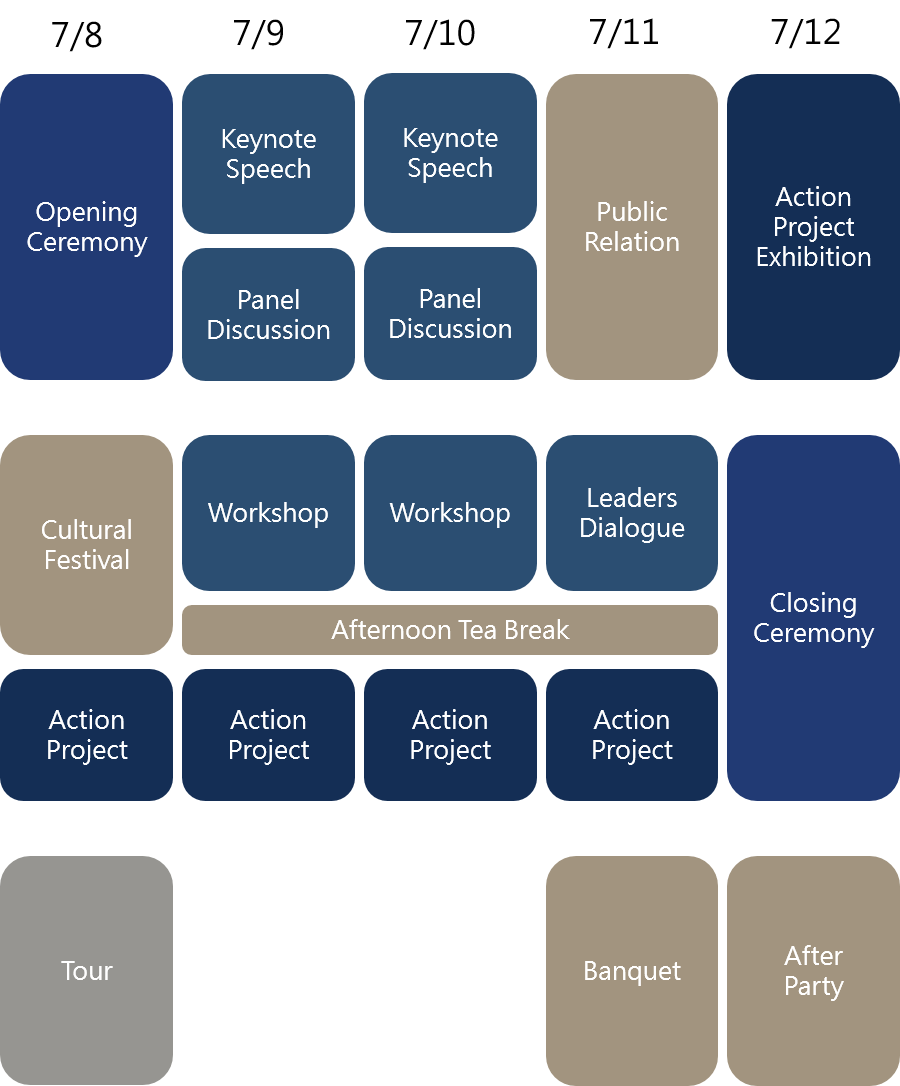
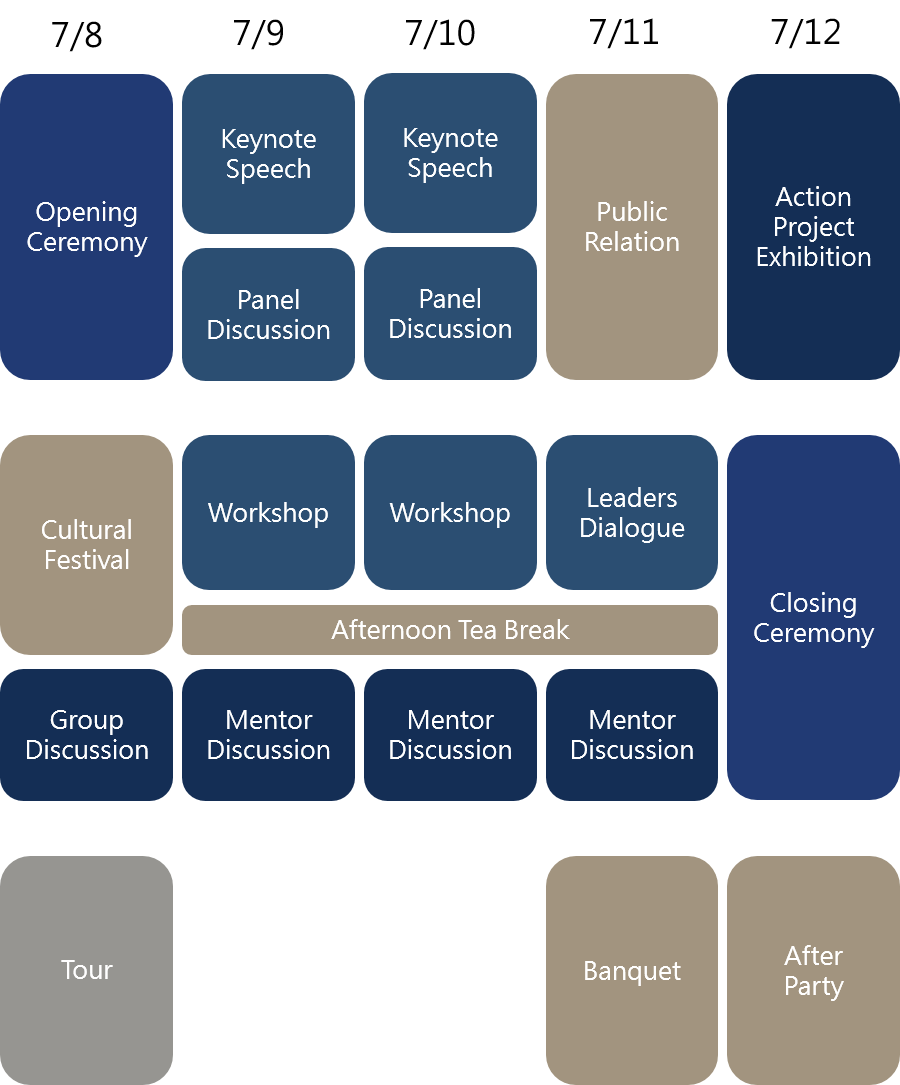
0310update

diff --git a/agenda.html b/agenda.html
@@ -119,6 +119,200 @@
                                 </div>
                             </div>
                         </section>
+                        <!--==========================
+                            About Us Section
+                            ============================-->
+                        <section id="about">
+                            <div class="container">
+
+                                <header class="section-header">
+                                    <h3 data-i18n="agenda.1h">Explore Academic Topics</h3>
+                                </header>
+
+                                <div class="row about-cols">
+
+                                    <div class="col-md-4 wow fadeInUp">
+                                        <div class="about-col">
+                                            <div class="img">
+                                                <img src="img/agenda/11.JPG" alt="" class="img-fluid">
+                                                <div class="icon"><i class="ion-ios-speedometer-outline"></i></div>
+                                            </div>
+                                            <h2 class="title" data-i18n="agenda.11">Keynote Speech</h2>
+                                            <p data-i18n="agenda.11_des">
+                                            Themes of the speeches all regard having proactive thinking and developmental possibilities. From the four speakers of different fields, they will combine creative notions and real-life experiences to inspire delegates. 
+                                            </p>
+                                        </div>
+                                    </div>
+
+                                    <div class="col-md-4 wow fadeInUp" data-wow-delay="0.1s">
+                                        <div class="about-col">
+                                            <div class="img">
+                                                <img src="img/agenda/12.JPG" alt="" class="img-fluid">
+                                                <div class="icon"><i class="ion-ios-list-outline"></i></div>
+                                            </div>
+                                            <h2 class="title" data-i18n="agenda.12">Panel Discussion</h2>
+                                            <p data-i18n="agenda.12_des">
+                                            Led by the host, speakers from different backgrounds will put forward questions and debate possible solutions. They will also answer and discuss questions asked by delegates. We hope that this experience can stimulate extensive ideas and imagination from both delegates and speakers. 
+                                            </p>
+                                        </div>
+                                    </div>
+
+                                    <div class="col-md-4 wow fadeInUp" data-wow-delay="0.2s">
+                                        <div class="about-col">
+                                            <div class="img">
+                                                <img src="img/agenda/13.jpg" alt="" class="img-fluid">
+                                                <div class="icon"><i class="ion-ios-eye-outline"></i></div>
+                                            </div>
+                                            <h2 class="title" data-i18n="agenda.13">Workshop</h2>
+                                            <p data-i18n="agenda.13_des">
+                                            After providing delegates with different perspectives on the keynote speech topics, we then invite the speakers to lead in-depth workshops. This encourages delegates to engage in deeper thinking and to incorporate individual strategic analysis or group proposals that can be applied to practical usages. 
+                                            </p>
+                                        </div>
+                                    </div>
+
+                                </div>
+                                <header class="section-header mt-4">
+                                    <h3 data-i18n="agenda.2h">Action Project</h3>
+                                </header>
+
+                                <div class="row about-cols">
+
+                                    <div class="col-md-4 wow fadeInUp">
+                                        <div class="about-col">
+                                            <div class="img">
+                                                <img src="img/agenda/21.JPG" alt="" class="img-fluid">
+                                                <div class="icon"><i class="ion-ios-speedometer-outline"></i></div>
+                                            </div>
+                                            <h2 class="title" data-i18n="agenda.21">Action Project Competition</h2>
+                                            <p data-i18n="agenda.21_des">
+                                            Delegates will apply professional knowledge learned from the academic topics on related fields. They will then discuss among groups, and with the help from industrial mentors, draft up feasible action plans and compete.
+                                            </p>
+                                        </div>
+                                    </div>
+
+                                    <div class="col-md-4 wow fadeInUp" data-wow-delay="0.1s">
+                                        <div class="about-col">
+                                            <div class="img">
+                                                <img src="img/agenda/22.JPG" alt="" class="img-fluid">
+                                                <div class="icon"><i class="ion-ios-list-outline"></i></div>
+                                            </div>
+                                            <h2 class="title" data-i18n="agenda.22">Mentor Discussion</h2>
+                                            <p data-i18n="agenda.22_des">
+                                            GIS Taiwan will arrange delegates to be mentored by academic and industrial experts. The experience of these industry experts enables a comprehensive inspection of delegates' proposals and helps optimize their action plans.
+                                            </p>
+                                        </div>
+                                    </div>
+
+                                    <div class="col-md-4 wow fadeInUp" data-wow-delay="0.2s">
+                                        <div class="about-col">
+                                            <div class="img">
+                                                <img src="img/agenda/23.JPG" alt="" class="img-fluid">
+                                                <div class="icon"><i class="ion-ios-eye-outline"></i></div>
+                                            </div>
+                                            <h2 class="title" data-i18n="agenda.23">Action Project Exhibition</h2>
+                                            <p data-i18n="agenda.23_des">
+                                            Each group will showcase their results and demonstrate their action plans to judges. We will also invite other companies and interested parties to participate in the forum. Ultimately we expect GIS Taiwan to become a platform where young talents' creativity can be seen and where their ideas can be realized.
+                                            </p>
+                                        </div>
+                                    </div>
+
+                                </div>
+                                <header class="section-header mt-4">
+                                    <h3 data-i18n="agenda.3h">Social Event</h3>
+                                </header>
+
+                                <div class="row about-cols">
+
+                                    <div class="col-md-4 wow fadeInUp">
+                                        <div class="about-col">
+                                            <div class="img">
+                                                <img src="img/agenda/31.JPG" alt="" class="img-fluid">
+                                                <div class="icon"><i class="ion-ios-speedometer-outline"></i></div>
+                                            </div>
+                                            <h2 class="title" data-i18n="agenda.31">Banquet</h2>
+                                            <p data-i18n="agenda.31_des">
+                                            The banquet will be held in the form of traditional Taiwanese catering. Not only will delegates attend, but speakers, company executives, and government officials will also be invited to celebrate and socialize in this particular occasion.
+                                            </p>
+                                        </div>
+                                    </div>
+
+                                    <div class="col-md-4 wow fadeInUp" data-wow-delay="0.1s">
+                                        <div class="about-col">
+                                            <div class="img">
+                                                <img src="img/agenda/32.jpg" alt="" class="img-fluid">
+                                                <div class="icon"><i class="ion-ios-list-outline"></i></div>
+                                            </div>
+                                            <h2 class="title" data-i18n="agenda.32">Afternoon Tea Break</h2>
+                                            <p data-i18n="agenda.32_des">
+                                            Besides academic discussions, GIS Taiwan arranged afternoon tea time for delegates to exchange opinions and to engage in closer relationships for generating deep thoughts into subjects.
+                                            </p>
+                                        </div>
+                                    </div>
+
+                                    <div class="col-md-4 wow fadeInUp" data-wow-delay="0.2s">
+                                        <div class="about-col">
+                                            <div class="img">
+                                                <img src="img/agenda/33.JPG" alt="" class="img-fluid">
+                                                <div class="icon"><i class="ion-ios-eye-outline"></i></div>
+                                            </div>
+                                            <h2 class="title" data-i18n="agenda.33">Cultural Festival</h2>
+                                            <p data-i18n="agenda.33_des">
+                                            Delegates from all over the world can experience cultural performances, Taiwanese snacks, and DIY crafts. Delegates are able to dig into the true and diverse Taiwanese culture through these events.
+                                            </p>
+                                        </div>
+                                    </div>
+
+                                    <div class="col-md-4 wow fadeInUp" data-wow-delay="0.2s">
+                                        <div class="about-col">
+                                            <div class="img">
+                                                <img src="img/agenda/34.jpg" alt="" class="img-fluid">
+                                                <div class="icon"><i class="ion-ios-eye-outline"></i></div>
+                                            </div>
+                                            <h2 class="title" data-i18n="agenda.34">After Party</h2>
+                                            <p data-i18n="agenda.34_des">
+                                            At the end of the five-day conference, GIS Taiwan invites all delegates and speakers to grasp the remaining time with each other and dance the night away.
+                                            </p>
+                                        </div>
+                                    </div>
+
+
+                                </div>
+                                <header class="section-header mt-4">
+                                    <h3 data-i18n="agenda.4h">Interdisciplinary Communication</h3>
+                                </header>
+
+                                <div class="row about-cols">
+
+                                    <div class="col-md-4 wow fadeInUp">
+                                        <div class="about-col">
+                                            <div class="img">
+                                                <img src="img/agenda/41.jpg" alt="" class="img-fluid">
+                                                <div class="icon"><i class="ion-ios-speedometer-outline"></i></div>
+                                            </div>
+                                            <h2 class="title" data-i18n="agenda.41">Opening and Closing Ceremony Speeches</h2>
+                                            <p data-i18n="agenda.41_des">
+                                            We'll be inviting domestic and oversea keynote speakers to share their professional experience in opening and ending sessions. Not only does it provide background knowledge for the delegates, but also intrigue them to elaborate and explore from different directions under this year’s theme.
+                                            </p>
+                                        </div>
+                                    </div>
+
+                                    <div class="col-md-4 wow fadeInUp" data-wow-delay="0.1s">
+                                        <div class="about-col">
+                                            <div class="img">
+                                                <img src="img/agenda/42.jpg" alt="" class="img-fluid">
+                                                <div class="icon"><i class="ion-ios-list-outline"></i></div>
+                                            </div>
+                                            <h2 class="title" data-i18n="agenda.42">Leaders Dialogue</h2>
+                                            <p data-i18n="agenda.42_des">
+                                            By gathering leaders from politics, businesses and academics to interchange with young adults according to the different topics raised, each group will be given an instructor who's in charge of the discussion.
+                                            </p>
+                                        </div>
+                                    </div>
+
+
+                               
+                            </div>
+                        </section><!-- #about -->
                 </main>
 
                 <!--==========================

diff --git a/gis2019.html b/gis2019.html
@@ -260,7 +260,7 @@
                                         </button>
                                     </div>
                                     <div class="modal-body">
-                                        <img src="./img/modal/modal22.png" width="100%"></img>
+                                        <img src="./img/modal/modal22.jpg" width="100%"></img>
                                         <p data-i18n="gis2019.topic.l22_des">The world is surrounded by the Internet in 21st century which is a faced with an unprecedented change. The Y and Z generations are labelled as “unrealistic” and “aimless”, but few people have taught them how to face the changing world. This year, GIS Taiwan will focus on the “educational revolution” and “social innovation”. Digging into the fundamentals, delegates will solve problems and build up solid sustainable development foundations. GIS Taiwan hopes delegates can realise the transformation of thinking in the new era, imagine more about future education, and ignite the eagerness to change.</p>
                                     </div>
                                 </div>
@@ -343,7 +343,7 @@
                                         </button>
                                     </div>
                                     <div class="modal-body">
-                                        <img src="./img/modal/modal33.png" width="100%"></img>
+                                        <img src="./img/modal/modal33.jpg" width="100%"></img>
                                         <p data-i18n="gis2019.topic.l33_des">By virtue of public health and medical technology in developed countries, life expectancy has increased. However, it doesn’t guarantee better life quality. Diseases and social problems derived from aging, not only deprive the living autonomy of elders, but also intensify the burden on young adults. To resolve these issues, many companies and governments’ main goal is to adopt technology and long-term care systems. GIS Taiwan wish to see delegates brainstorm ways of using technology to effectively distribute resources and enhance efficiency, creating more commercial opportunities and value of health.</p>
                                     </div>
                                 </div>
